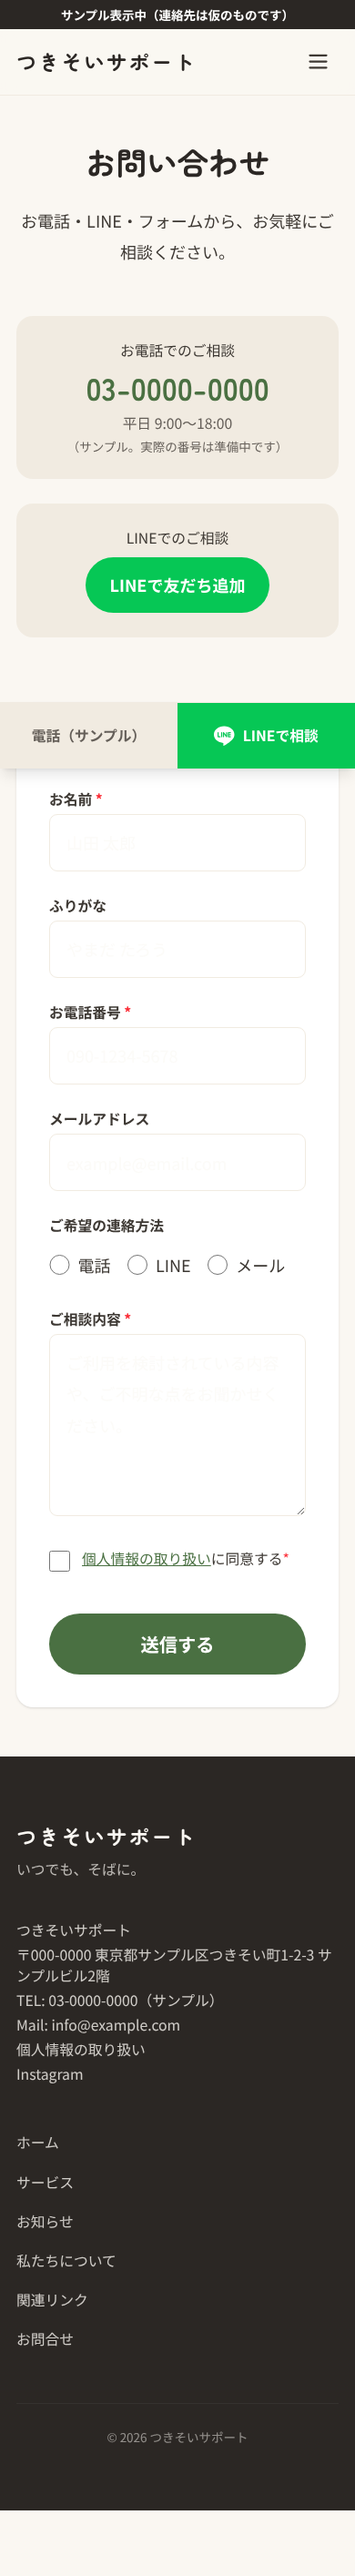
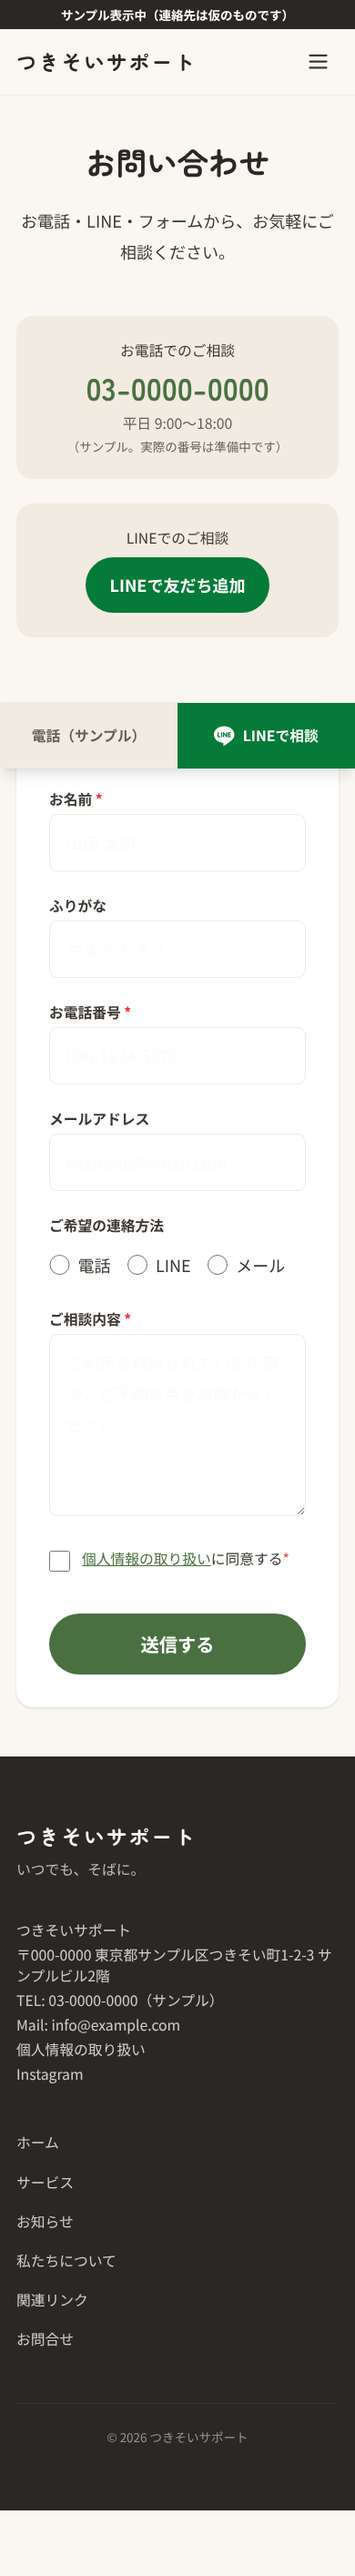
LINEボタンの緑を暗くして白文字のコントラストを確保（2.26:1 → 5.46:1）
Claude-Session: https://claude.ai/code/session_01TppuYFeHeBhpB1RsGLh9FC

Changed region(s): [[0.2462, 0.2177, 1.0, 0.3111]]

diff --git a/tests/sample-preview.spec.ts b/tests/sample-preview.spec.ts
@@ -83,3 +83,27 @@ for (const width of [1440, 390, 320]) {
     expect(overflow).toBeLessThanOrEqual(0);
   });
 }
+
+// LINE ボタン（緑地に白文字）は文字コントラスト 4.5:1 以上（公式色 #06C755 は 2.26:1 で不足だった）
+function luminance([r, g, b]: number[]) {
+  const f = (c: number) => ((c /= 255) <= 0.03928 ? c / 12.92 : ((c + 0.055) / 1.055) ** 2.4);
+  return 0.2126 * f(r) + 0.7152 * f(g) + 0.0722 * f(b);
+}
+const rgb = (css: string) => (css.match(/[\d.]+/g) ?? []).slice(0, 3).map(Number);
+function contrast(fg: string, bg: string) {
+  const [a, b] = [luminance(rgb(fg)), luminance(rgb(bg))].sort((x, y) => y - x);
+  return (a + 0.05) / (b + 0.05);
+}
+for (const [path, name] of [['/contact', 'LINEで友だち追加'], ['/', 'LINEで友だち追加'], ['/', 'LINEで相談']] as const) {
+  test(`LINE button text has enough contrast on ${path}: ${name}`, async ({ page }) => {
+    await page.setViewportSize({ width: 390, height: 844 });
+    await page.goto(path);
+    const link = page.getByRole('link', { name }).first();
+    await expect(link).toBeVisible();
+    const { color, backgroundColor } = await link.evaluate((el) => {
+      const s = getComputedStyle(el);
+      return { color: s.color, backgroundColor: s.backgroundColor };
+    });
+    expect(contrast(color, backgroundColor), `${color} on ${backgroundColor}`).toBeGreaterThanOrEqual(4.5);
+  });
+}

diff --git a/src/styles/global.css b/src/styles/global.css
@@ -8,7 +8,7 @@
   --color-ink-muted: #655F59; /* 補足文字。どの地色でも 5:1 以上 */
   --color-accent: #4A7042; /* 白文字 5.69:1、生成り地 5.33:1 */
   --color-accent-hover: #3D5E37;
-  --color-line: #06C755;
+  --color-line: #067A38; /* LINE の緑を暗くした色。白文字 5.46:1（公式色 #06C755 は 2.26:1 で不足） */
 
   --font-heading: 'Zen Maru Gothic', sans-serif;
   --font-body: 'Noto Sans JP', sans-serif;

diff --git a/src/utils/qr.ts b/src/utils/qr.ts
@@ -17,6 +17,6 @@ export async function generateLineQrSvg(url: string): Promise<string> {
     type: 'svg',
     margin: 1,
     width: 200,
-    color: { dark: '#06C755', light: '#FFFFFF' },
+    color: { dark: '#067A38', light: '#FFFFFF' },
   });
 }
